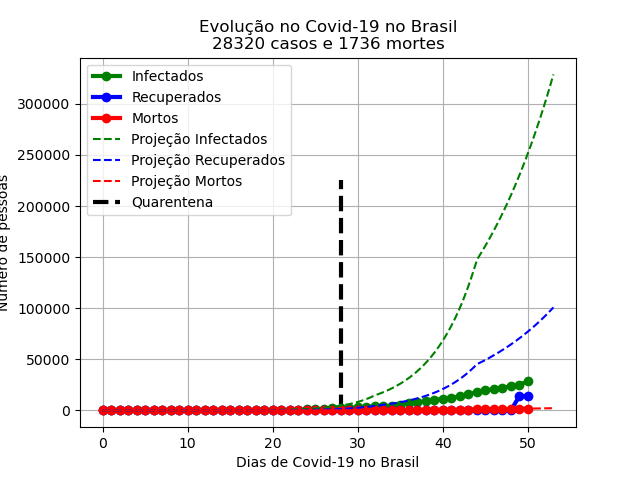
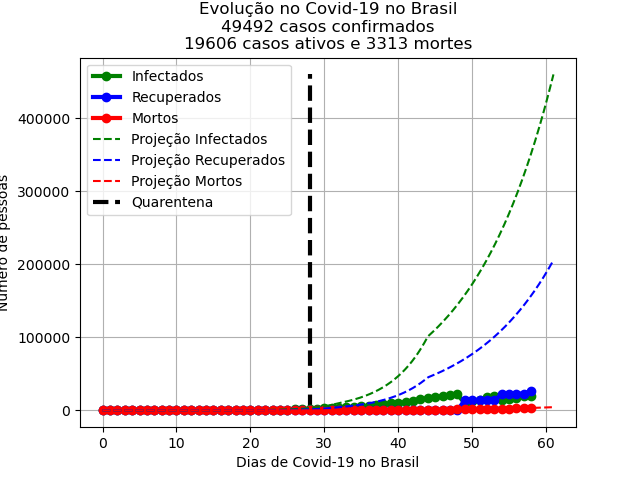
Update covid

diff --git a/covid-19.html b/covid-19.html
@@ -102,7 +102,7 @@
     <div class="main">
         <h1> Acompanhe a evolução do Covid-19 no Brasil </h1>
 
-        <p>Atualização: 15/04/2020</p>
+        <p>Atualização: 23/04/2020</p>
         <p> A pandemia de coronavírus está evoluindo ao redor do mundo. No Brasil os casos estão aumentando a cada dia. Medidas de contenção estão sendo empregadas para evitar que o número de infectados aumente. Veja como está a evolução no gráfico a seguir.</p>
         
         <a class="aulaImg"><img class="aula" src="images/covid19.png"></a>
@@ -111,7 +111,13 @@
         <p> Note que o número de casos reportados está divergindo da projeção. Isso pode indicar que a quarentena está surtindo efeito ou que estão fazendo menos análises e confirmando um menor número de casos. </p>
         <p> O número de mortos estava bem próximo à projeção, porém recentemente teve uma tendência de queda. Essa queda pode ser devido às medidas de isolamento social adotadas amplamente pelo país. A diminuição do fator beta foi utilizada no modelo para ter maior representatividade na curva de mortos real, que é a que possui maior confiabilidade estatística.</p>
 
+        <p> Pela projeção é possível saber que o número de casos confirmados é muito menor do que o reportado pelo ministério da saúde. Isso é normal, pois somente os casos mais graves são testados e confirmados, enquanto que a maioria tem sintomas leves ou se recupera em casa. Mesmo as pessoas que vão até a unidade de saúde não são testadas quando o estado não é grave.</p>
+
         <a class="aulaImg"><img class="aula" src="images/covid19Mortos.png"></a>
+
+        <p> É possível estimar o efeito da quarentena pelo modelo. O gráfico a seguir mostra como o fator beta variou durante o período da epidemia. Veja que após a quarentena o fator de transmissão beta diminuiu bastante. O que indica que a quarentena está tendo resultado.</p>
+
+        <a class="aulaImg"><img class="aula" src="images/fatorBeta.png"></a>
 
         <p> Se você quer entender como uma epidemia evolui e a entender como os cientistas projetam possíveis cenários da evolução de uma pandemia, veja o vídeo que preparei abaixo.</p>
 
